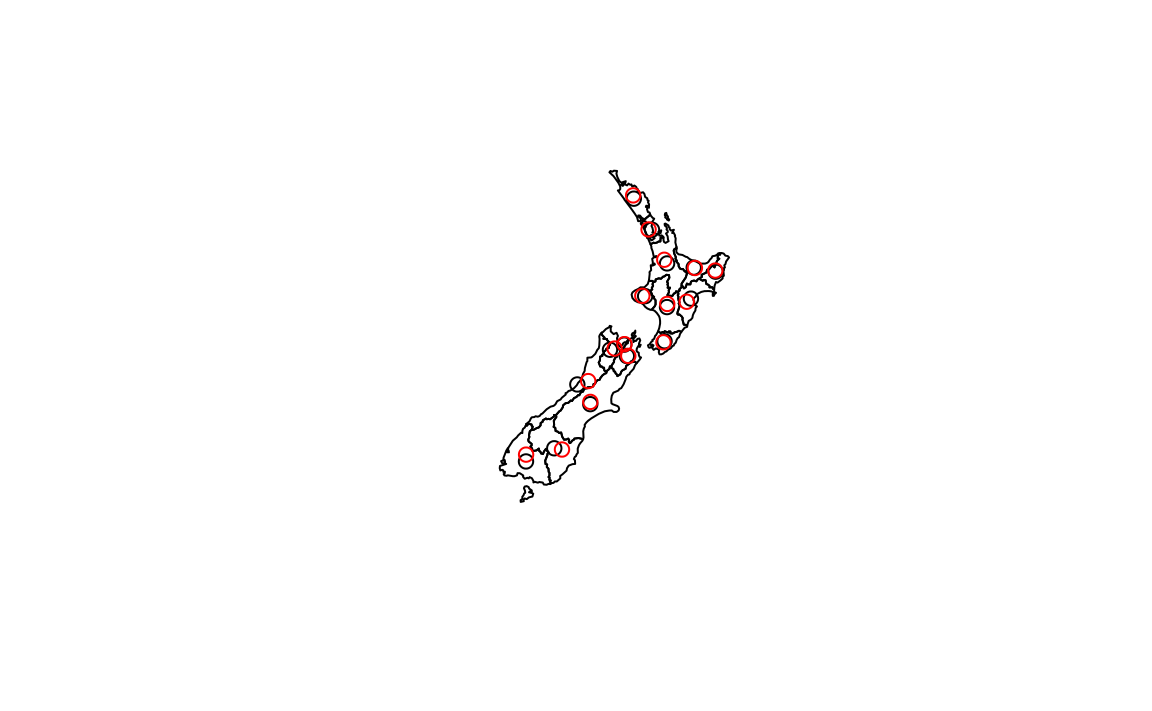
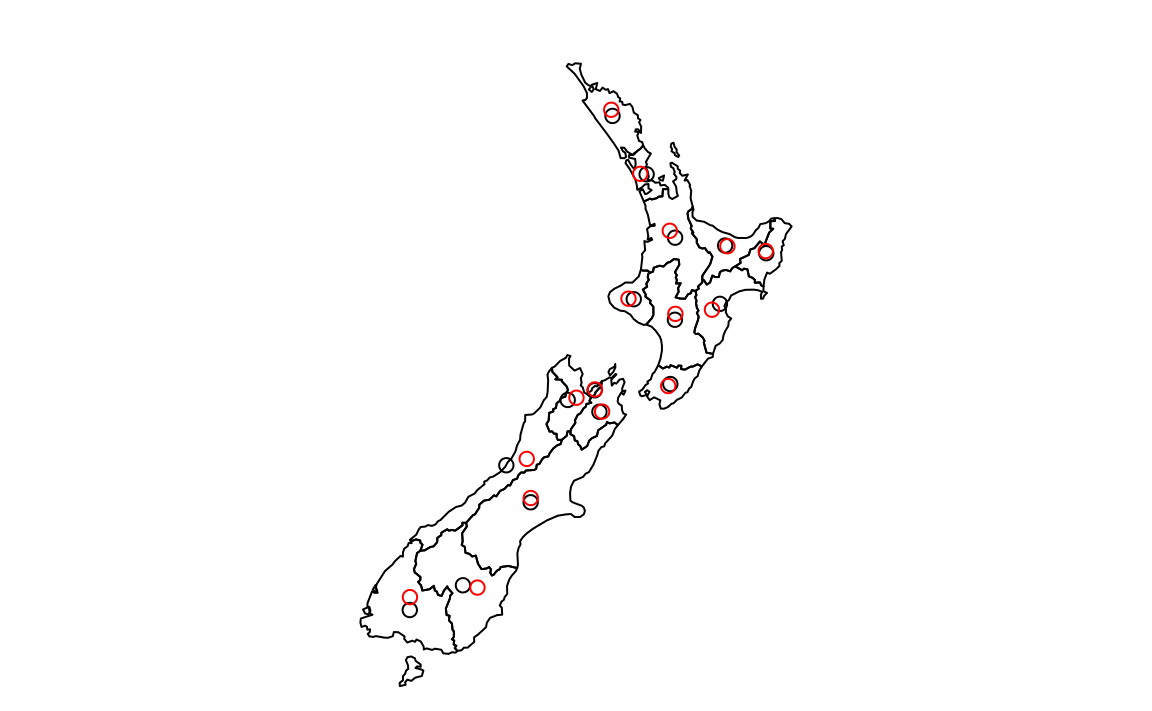
Updating book (1659)
Former-commit-id: 4ba451cd43a3a86952a940144f8dc4f43e0bce87
Former-commit-id: d5b62df0737b37db9c848fe62c46b98f2ca3d697

Changed region(s): [[0.4062, 0.0928, 0.6875, 0.7426], [0.3125, 0.7117, 0.4688, 0.8973], [0.3438, 0.8973, 0.4062, 0.9592]]

diff --git a/transform.html b/transform.html
@@ -333,6 +333,14 @@ Figure 6.2: Buffer on data with projected CRS.
 <span class="co">#&gt; Coordinate Reference System:</span>
 <span class="co">#&gt;   EPSG: 27700 </span>
 <span class="co">#&gt;   proj4string: &quot;+proj=tmerc +lat_0=49 +lon_0=-2 +k=0.9996012717 +x_0=400000 +y_0=-100000 +ellps=airy +towgs84=446.448,-125.157,542.06,0.15,0.247,0.842,-20.489 +units=m +no_defs&quot;</span></code></pre></div>
+<!-- plot -->
+<!-- ```{r} -->
+<!-- par_old = par() -->
+<!-- par(mfrow = c(1, 2)) -->
+<!-- plot(cycle_hire_osm$geometry, axes = TRUE) -->
+<!-- plot(cycle_hire_osm_projected$geometry, axes = TRUE) -->
+<!-- par(par_old) -->
+<!-- ``` -->
 <p>Note that the result shows that the <code>epsg</code> has been updated and that <code>proj4string</code> element of the CRS now contains, among other things <code>+proj=tmerc</code> (meaning it is a projected CRS using the <a href="https://en.wikipedia.org/wiki/Transverse_Mercator_projection">tranverse Mercator</a> projection) and <code>+units=m</code> (meaning the units of the coordinates are meters). Another function, from the <strong>rgdal</strong> library, provides a note containing the name of the CRS:</p>
 <div class="sourceCode"><pre class="sourceCode r"><code class="sourceCode r">crs_codes =<span class="st"> </span>rgdal::<span class="kw">make_EPSG</span>()[<span class="dv">1</span>:<span class="dv">2</span>]
 dplyr::<span class="kw">filter</span>(crs_codes, code ==<span class="st"> </span><span class="dv">27700</span>)
@@ -488,9 +496,18 @@ con_raster_ea
 <h3><span class="header-section-number">6.3.1</span> Centroids</h3>
 <div class="sourceCode"><pre class="sourceCode r"><code class="sourceCode r">nz_centroid =<span class="st"> </span><span class="kw">st_centroid</span>(nz)</code></pre></div>
 <div class="sourceCode"><pre class="sourceCode r"><code class="sourceCode r">nz_pos =<span class="st"> </span><span class="kw">st_point_on_surface</span>(nz)</code></pre></div>
-<div class="sourceCode"><pre class="sourceCode r"><code class="sourceCode r"><span class="kw">plot</span>(nz$geometry)
+<div class="sourceCode"><pre class="sourceCode r"><code class="sourceCode r">par_old =<span class="st"> </span><span class="kw">par</span>()
+<span class="kw">par</span>(<span class="dt">mar =</span> <span class="kw">c</span>(<span class="dv">0</span>, <span class="dv">0</span>, <span class="dv">1</span>, <span class="dv">0</span>))
+<span class="kw">plot</span>(nz$geometry)
 <span class="kw">plot</span>(nz_centroid$geometry, <span class="dt">add =</span> <span class="ot">TRUE</span>)
-<span class="kw">plot</span>(nz_pos$geometry, <span class="dt">add =</span> <span class="ot">TRUE</span>, <span class="dt">col =</span> <span class="st">&quot;red&quot;</span>)</code></pre></div>
+<span class="kw">plot</span>(nz_pos$geometry, <span class="dt">add =</span> <span class="ot">TRUE</span>, <span class="dt">col =</span> <span class="st">&quot;red&quot;</span>)
+<span class="kw">par</span>(par_old)
+<span class="co">#&gt; Warning in par(par_old): graphical parameter &quot;cin&quot; cannot be set</span>
+<span class="co">#&gt; Warning in par(par_old): graphical parameter &quot;cra&quot; cannot be set</span>
+<span class="co">#&gt; Warning in par(par_old): graphical parameter &quot;csi&quot; cannot be set</span>
+<span class="co">#&gt; Warning in par(par_old): graphical parameter &quot;cxy&quot; cannot be set</span>
+<span class="co">#&gt; Warning in par(par_old): graphical parameter &quot;din&quot; cannot be set</span>
+<span class="co">#&gt; Warning in par(par_old): graphical parameter &quot;page&quot; cannot be set</span></code></pre></div>
 <p><img src="figures/unnamed-chunk-29-1.png" width="576" style="display: block; margin: auto;" /></p>
 </div>
 <div id="clipping" class="section level3">
@@ -556,8 +573,17 @@ Figure 6.9: Randomly distributed points within the bounding box enclosing circle
 <div id="geometry-cast" class="section level3">
 <h3><span class="header-section-number">6.4.1</span> Geometry cast</h3>
 <div class="sourceCode"><pre class="sourceCode r"><code class="sourceCode r">nz_points =<span class="st"> </span><span class="kw">st_cast</span>(nz, <span class="st">&quot;MULTIPOINT&quot;</span>)</code></pre></div>
-<div class="sourceCode"><pre class="sourceCode r"><code class="sourceCode r"><span class="kw">plot</span>(nz$geometry)
-<span class="kw">plot</span>(nz_points$geometry, <span class="dt">add =</span> <span class="ot">TRUE</span>)</code></pre></div>
+<div class="sourceCode"><pre class="sourceCode r"><code class="sourceCode r">par_old =<span class="st"> </span><span class="kw">par</span>()
+<span class="kw">par</span>(<span class="dt">mar =</span> <span class="kw">c</span>(<span class="dv">0</span>, <span class="dv">0</span>, <span class="dv">1</span>, <span class="dv">0</span>))
+<span class="kw">plot</span>(nz$geometry)
+<span class="kw">plot</span>(nz_points$geometry, <span class="dt">add =</span> <span class="ot">TRUE</span>)
+<span class="kw">par</span>(par_old)
+<span class="co">#&gt; Warning in par(par_old): graphical parameter &quot;cin&quot; cannot be set</span>
+<span class="co">#&gt; Warning in par(par_old): graphical parameter &quot;cra&quot; cannot be set</span>
+<span class="co">#&gt; Warning in par(par_old): graphical parameter &quot;csi&quot; cannot be set</span>
+<span class="co">#&gt; Warning in par(par_old): graphical parameter &quot;cxy&quot; cannot be set</span>
+<span class="co">#&gt; Warning in par(par_old): graphical parameter &quot;din&quot; cannot be set</span>
+<span class="co">#&gt; Warning in par(par_old): graphical parameter &quot;page&quot; cannot be set</span></code></pre></div>
 <p><img src="figures/unnamed-chunk-33-1.png" width="576" style="display: block; margin: auto;" /></p>
 </div>
 </div>
